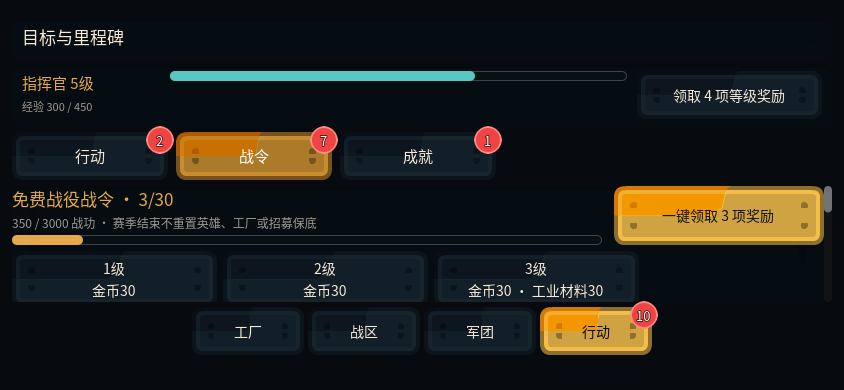
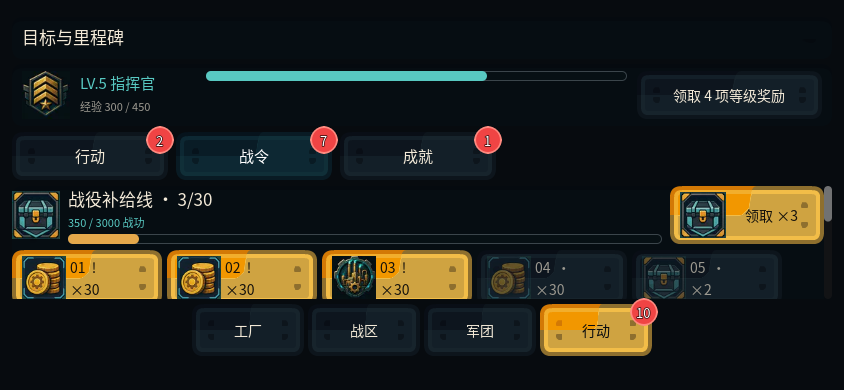
feat: turn the battle pass into a reward runway

diff --git a/design/ux/slg-ui-visual-refresh.md b/design/ux/slg-ui-visual-refresh.md
@@ -146,6 +146,17 @@
 名称、数值进度和领取状态；已完成、进行中与已领取同时通过描边、明度和文字区分。批量领取
 是唯一金色主行动，红色通知数不再承担成就状态本身。
 
+战令子页采用 Supercell 官方《Clash Royale》Pass Royale 与《Brawl Stars》Brawl Pass
+共同使用的 reward track 原则：奖励必须依附连续 tier、已领取/当前可领取/未到达状态同时
+可见，当前战功与下一批奖励保持同屏。项目是免费学习型战令，仅采用“轨道先于列表、奖励图标
+先于名称、当前 tier 可定位”的结构，不复制付费轨、角色、宝箱造型或具体构图。参考入口：
+`https://support.supercell.com/clash-royale/en/articles/pass-royale-11.html` 与
+`https://support.supercell.com/brawl-stars/en/articles/brawl-pass-quests-7.html`。
+
+30 级战令改为 844 五列、568 四列的纵向奖励跑道；卡片复用金币、工业、补给箱和军团数据
+WebP，只显示两位等级、状态符号和数量，完整奖励进入 tooltip。金色只标记当前可领取 tier
+与唯一批量领取按钮；已领取降低明度，未到达保持深色。跑道允许纵向滚动，不使用横向滚动。
+
 ### 科技蓝图
 
 蓝图屏参考 Wargaming 官方《World of Tanks Blitz》科技树的前置研究关系与已研究/未研究状态
@@ -233,7 +244,10 @@
   `ui-goals-844x390.png` 是独立双尺寸和主流程集成证据；同一测试还验证成就奖章墙、
   栅格徽章、批量领取和 568×320 边界，`ui-achievement-medals-844x390.png`、
   `ui-achievement-medals-568x320.png` 与 `ui-achievements-844x390.png`
-  是专项及主流程成就证据。
+  是专项及主流程成就证据；战令断言覆盖 30 级奖励跑道、图标奖励语义、领取动作和当前
+  compact tiers 边界，`ui-battle-pass-runway-844x390.png`、
+  `ui-battle-pass-runway-568x320.png` 与 `ui-pass-844x390.png`
+  是专项及主流程战令证据。
 - `run_blueprint_screen_tests.gd` 验证分支图标、核心节点、路径连接、设计状态、语义动作与
   568×320 边界；`ui-blueprint-branch-844x390.png`、
   `ui-blueprint-branch-568x320.png` 与 `ui-blueprint-tree-844x390.png`
